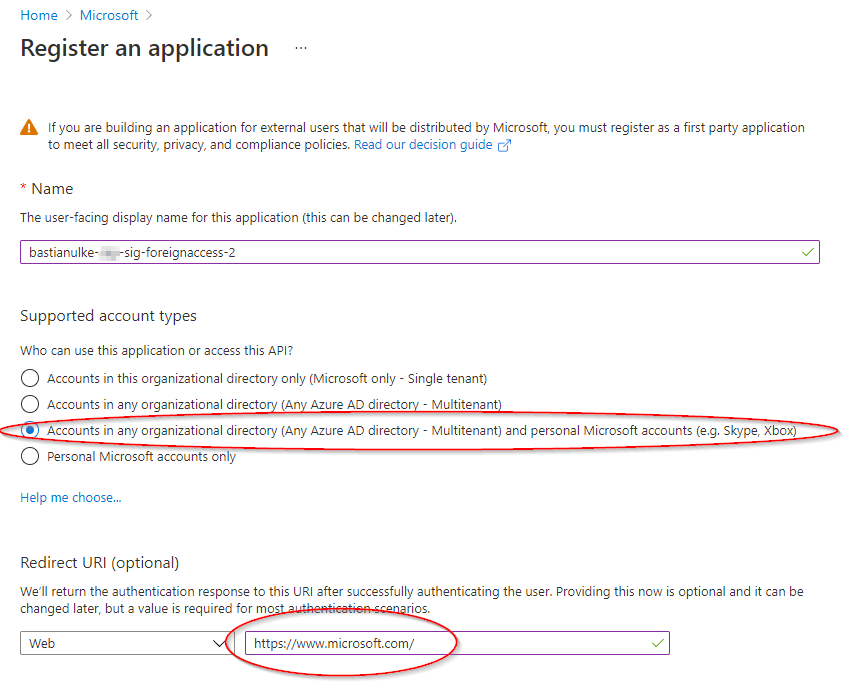
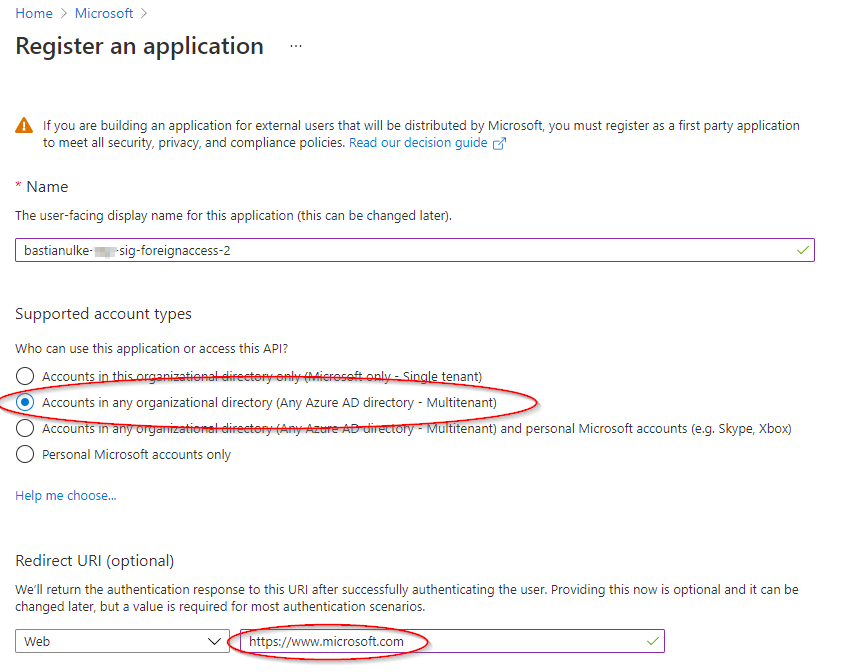
Multitenant app registration is enough; Redirect URI can be replaced.

diff --git a/README.md b/README.md
@@ -76,6 +76,8 @@ az sig image-version create \
 ## Add App Registration in Tenant 1 ("Corporate Tenant") 
 ![Create App Registration in AAD via Azure Portal.](./img/app-reg_create.png "Create App Registration in AAD via Azure Portal.")
 
+(Replace https://www.microsoft.com with another URI of your prference. But then make sure also to change the URL in the later step accordingly.)
+
 ## Get app id and set as variable
 ![Get App Registration id from Azure Portal.](./img/app-reg_copy-id.png "Get App Registration id from Azure Portal.")
 ```
@@ -98,6 +100,8 @@ az role assignment create \
 
 ## Compose URL for authorization and call in Browser
 (see guide [Share gallery VM images across Azure tenants using PowerShell](https://docs.microsoft.com/en-us/azure/virtual-machines/windows/share-images-across-tenants) for reference)
+
+(Remember to adopt query parameter `redirect_uri` if you decided to replace https://www.microsoft.com with another URL of your preference above.)
 ```
 echo "https://login.microsoftonline.com/$SHARED_TENANT_ID/oauth2/authorize?client_id=$APP_ID&response_type=code&redirect_uri=https%3A%2F%2Fwww.microsoft.com%2F"
 ``` 
